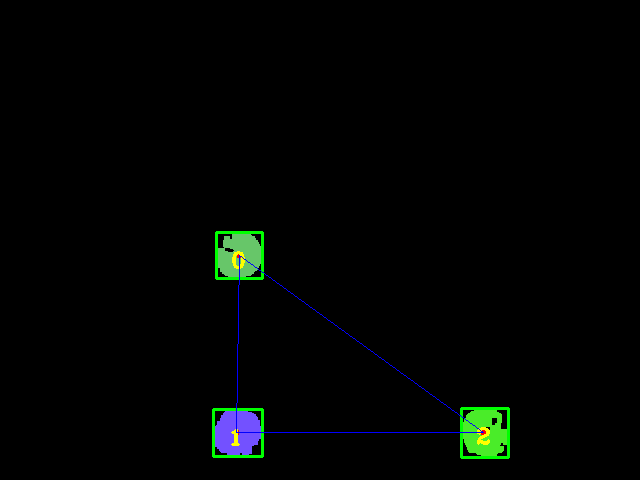
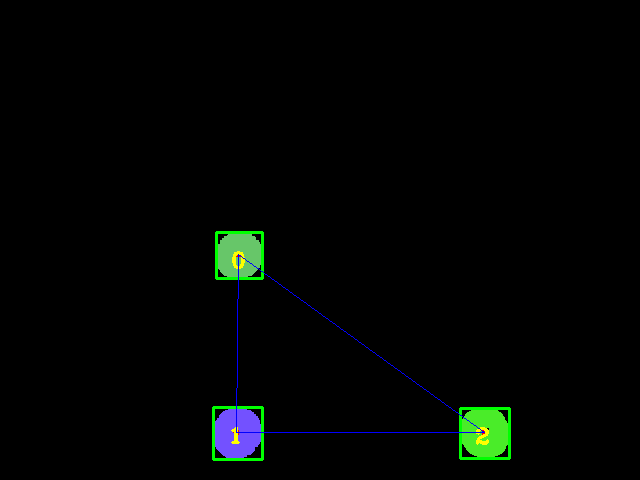
last

diff --git a/flag/opencv.cpp b/flag/opencv.cpp
@@ -23,7 +23,7 @@ int main(void) {
 	cv::Mat test;
 
 	//filename入力
-	img = cv::imread("a.png");
+	img = cv::imread("b.png");
 	
 	if (img.empty()) {
 		// 画像の中身が空なら終了する
